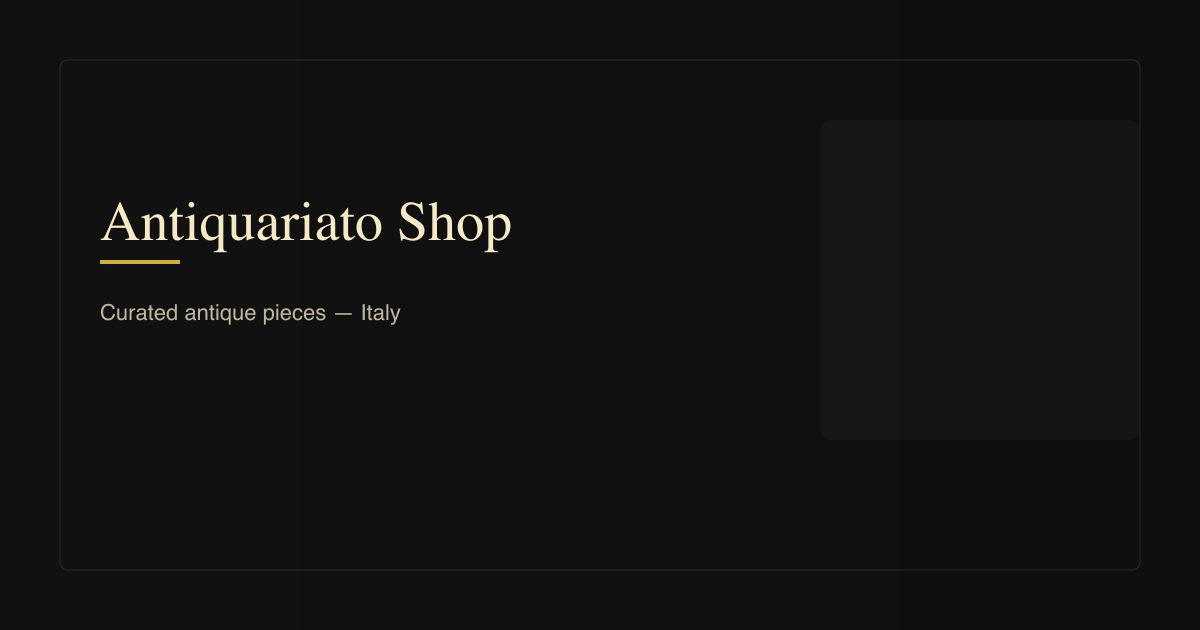
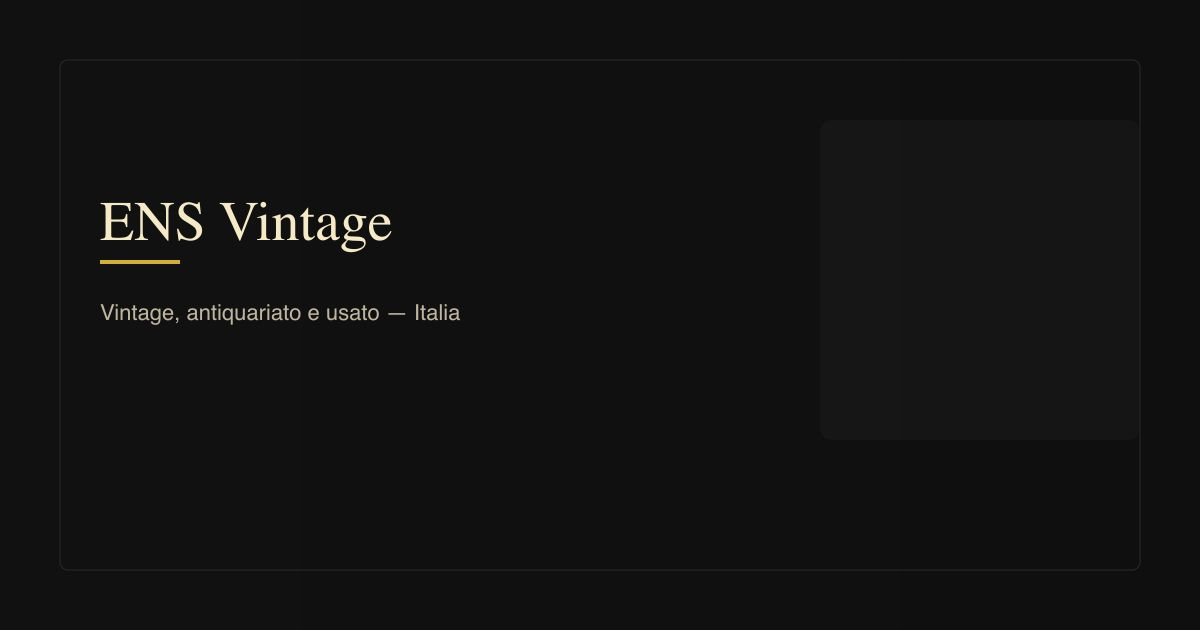
Brand: ENS Vintage

Changed region(s): [[0.0617, 0.3016, 0.4317, 0.4222], [0.0617, 0.4825, 0.4008, 0.5127]]

diff --git a/index.html b/index.html
@@ -3,14 +3,14 @@
 <head>
   <meta charset="utf-8">
   <meta name="viewport" content="width=device-width, initial-scale=1">
-  <meta name="description" content="ENS Antiquariato & Usato — annunci verificati, acquisto semplice e contatto diretto. Cerca per zona e categoria: antiquariato, moda, elettronica, casa e altro.">
+  <meta name="description" content="ENS Vintage — annunci verificati, acquisto semplice e contatto diretto. Cerca per zona e categoria: antiquariato, moda, elettronica, casa e altro.">
   <meta name="theme-color" content="#f6f1e7">
-  <meta property="og:title" content="ENS Antiquariato & Usato">
+  <meta property="og:title" content="ENS Vintage">
   <meta property="og:description" content="Annunci verificati: antiquariato e usato. Cerca per zona e categoria, salva i preferiti e contatta il venditore.">
   <meta property="og:type" content="website">
   <meta property="og:url" content="https://egly87.github.io/ensantiquarato.github.io">
   <meta property="og:image" content="https://egly87.github.io/ensantiquarato.github.io/assets/brand/og-1200x630.jpg">
-  <title>ENS Antiquariato & Usato — Annunci e marketplace</title>
+  <title>ENS Vintage — Annunci e marketplace</title>
   <link rel="canonical" href="https://egly87.github.io/ensantiquarato.github.io/">
   <link rel="manifest" href="manifest.webmanifest">
   <link rel="icon" href="assets/brand/favicon-512.png" type="image/png">
@@ -21,8 +21,8 @@
     <header class="navbar">
       <div class="navbar-container">
         <a href="index.html" class="navbar-brand">
-          <img src="assets/brand/logo.svg" alt="ENS Antiquariato" class="logo" loading="lazy" width="42" height="42" decoding="async">
-          <span>ENS Antiquariato & Usato</span>
+          <img src="assets/brand/logo.svg" alt="ENS Vintage" class="logo" loading="lazy" width="42" height="42" decoding="async">
+          <span>ENS Vintage</span>
         </a>
         <nav class="navbar-menu">
           <a href="index.html" class="nav-link active">Home</a>
@@ -263,7 +263,7 @@
       <div class="container">
         <div class="footer-content">
           <div class="footer-section">
-            <h4>ENS Antiquariato & Usato</h4>
+            <h4>ENS Vintage</h4>
             <p>Annunci verificati di antiquariato e usato: foto reali, condizione chiara e contatto diretto.</p>
           </div>
           <div class="footer-section">

diff --git a/chi-siamo.html b/chi-siamo.html
@@ -3,14 +3,14 @@
 <head>
   <meta charset="utf-8">
   <meta name="viewport" content="width=device-width, initial-scale=1">
-  <meta name="description" content="Chi siamo — ENS Antiquariato & Usato. Annunci verificati, trasparenza e supporto diretto.">
+  <meta name="description" content="Chi siamo — ENS Vintage. Annunci verificati, trasparenza e supporto diretto.">
   <meta name="theme-color" content="#f6f1e7">
-  <meta property="og:title" content="Chi siamo — ENS Antiquariato & Usato">
+  <meta property="og:title" content="Chi siamo — ENS Vintage">
   <meta property="og:description" content="Passione per pezzi autentici, consulenza e cura del dettaglio.">
   <meta property="og:type" content="website">
   <meta property="og:url" content="https://egly87.github.io/ensantiquarato.github.io/chi-siamo.html">
   <meta property="og:image" content="https://egly87.github.io/ensantiquarato.github.io/assets/brand/og-1200x630.jpg">
-  <title>Chi siamo — ENS Antiquariato & Usato</title>
+  <title>Chi siamo — ENS Vintage</title>
   <link rel="canonical" href="https://egly87.github.io/ensantiquarato.github.io/chi-siamo.html">
   <link rel="manifest" href="manifest.webmanifest">
   <link rel="icon" href="assets/brand/favicon-512.png" type="image/png">
@@ -21,8 +21,8 @@
     <header class="navbar">
       <div class="navbar-container">
         <a href="index.html" class="navbar-brand">
-          <img src="assets/brand/logo.svg" alt="ENS Antiquariato" class="logo" loading="lazy" width="42" height="42" decoding="async">
-          <span>ENS Antiquariato & Usato</span>
+          <img src="assets/brand/logo.svg" alt="ENS Vintage" class="logo" loading="lazy" width="42" height="42" decoding="async">
+          <span>ENS Vintage</span>
         </a>
         <nav class="navbar-menu">
           <a href="index.html" class="nav-link">Home</a>

diff --git a/termini.html b/termini.html
@@ -3,14 +3,14 @@
 <head>
   <meta charset="utf-8">
   <meta name="viewport" content="width=device-width, initial-scale=1">
-  <meta name="description" content="Termini e Condizioni — ENS Antiquariato & Usato.">
+  <meta name="description" content="Termini e Condizioni — ENS Vintage.">
   <meta name="theme-color" content="#f6f1e7">
-  <meta property="og:title" content="Termini — ENS Antiquariato & Usato">
+  <meta property="og:title" content="Termini — ENS Vintage">
   <meta property="og:description" content="Termini e condizioni di vendita e utilizzo del sito.">
   <meta property="og:type" content="website">
   <meta property="og:url" content="https://egly87.github.io/ensantiquarato.github.io/termini.html">
   <meta property="og:image" content="https://egly87.github.io/ensantiquarato.github.io/assets/brand/og-1200x630.jpg">
-  <title>Termini e Condizioni — ENS Antiquariato & Usato</title>
+  <title>Termini e Condizioni — ENS Vintage</title>
   <link rel="canonical" href="https://egly87.github.io/ensantiquarato.github.io/termini.html">
   <link rel="manifest" href="manifest.webmanifest">
   <link rel="icon" href="assets/brand/favicon-512.png" type="image/png">
@@ -21,8 +21,8 @@
     <header class="navbar">
       <div class="navbar-container">
         <a href="index.html" class="navbar-brand">
-          <img src="assets/brand/logo.svg" alt="ENS Antiquariato" class="logo" loading="lazy" width="42" height="42" decoding="async">
-          <span>ENS Antiquariato & Usato</span>
+          <img src="assets/brand/logo.svg" alt="ENS Vintage" class="logo" loading="lazy" width="42" height="42" decoding="async">
+          <span>ENS Vintage</span>
         </a>
         <nav class="navbar-menu">
           <a href="index.html" class="nav-link">Home</a>

diff --git a/prodotto.html b/prodotto.html
@@ -3,14 +3,14 @@
 <head>
   <meta charset="utf-8">
   <meta name="viewport" content="width=device-width, initial-scale=1">
-  <meta name="description" content="Dettagli annuncio — ENS Antiquariato & Usato.">
+  <meta name="description" content="Dettagli annuncio — ENS Vintage.">
   <meta name="theme-color" content="#f6f1e7">
-  <meta property="og:title" content="Annuncio — ENS Antiquariato & Usato">
+  <meta property="og:title" content="Annuncio — ENS Vintage">
   <meta property="og:description" content="Scopri i dettagli dell'annuncio: foto, descrizione, zona e contatto diretto.">
   <meta property="og:type" content="product">
   <meta property="og:url" content="https://egly87.github.io/ensantiquarato.github.io/prodotto.html">
   <meta property="og:image" content="https://egly87.github.io/ensantiquarato.github.io/assets/brand/og-1200x630.jpg">
-  <title>Annuncio — ENS Antiquariato & Usato</title>
+  <title>Annuncio — ENS Vintage</title>
   <link rel="canonical" href="https://egly87.github.io/ensantiquarato.github.io/prodotto.html">
   <link rel="manifest" href="manifest.webmanifest">
   <link rel="icon" href="assets/brand/favicon-512.png" type="image/png">
@@ -21,8 +21,8 @@
     <header class="navbar">
       <div class="navbar-container">
         <a href="index.html" class="navbar-brand">
-          <img src="assets/brand/logo.svg" alt="ENS Antiquariato" class="logo" loading="lazy" width="42" height="42" decoding="async">
-          <span>ENS Antiquariato & Usato</span>
+          <img src="assets/brand/logo.svg" alt="ENS Vintage" class="logo" loading="lazy" width="42" height="42" decoding="async">
+          <span>ENS Vintage</span>
         </a>
         <nav class="navbar-menu">
           <a href="index.html" class="nav-link">Home</a>

diff --git a/privacy.html b/privacy.html
@@ -3,14 +3,14 @@
 <head>
   <meta charset="utf-8">
   <meta name="viewport" content="width=device-width, initial-scale=1">
-  <meta name="description" content="Informativa sulla Privacy — ENS Antiquariato & Usato.">
+  <meta name="description" content="Informativa sulla Privacy — ENS Vintage.">
   <meta name="theme-color" content="#f6f1e7">
-  <meta property="og:title" content="Privacy — ENS Antiquariato & Usato">
+  <meta property="og:title" content="Privacy — ENS Vintage">
   <meta property="og:description" content="Informativa sulla privacy e trattamento dati.">
   <meta property="og:type" content="website">
   <meta property="og:url" content="https://egly87.github.io/ensantiquarato.github.io/privacy.html">
   <meta property="og:image" content="https://egly87.github.io/ensantiquarato.github.io/assets/brand/og-1200x630.jpg">
-  <title>Privacy — ENS Antiquariato & Usato</title>
+  <title>Privacy — ENS Vintage</title>
   <link rel="canonical" href="https://egly87.github.io/ensantiquarato.github.io/privacy.html">
   <link rel="manifest" href="manifest.webmanifest">
   <link rel="icon" href="assets/brand/favicon-512.png" type="image/png">
@@ -21,8 +21,8 @@
     <header class="navbar">
       <div class="navbar-container">
         <a href="index.html" class="navbar-brand">
-          <img src="assets/brand/logo.svg" alt="ENS Antiquariato" class="logo" loading="lazy" width="42" height="42" decoding="async">
-          <span>ENS Antiquariato & Usato</span>
+          <img src="assets/brand/logo.svg" alt="ENS Vintage" class="logo" loading="lazy" width="42" height="42" decoding="async">
+          <span>ENS Vintage</span>
         </a>
         <nav class="navbar-menu">
           <a href="index.html" class="nav-link">Home</a>

diff --git a/contatti.html b/contatti.html
@@ -5,12 +5,12 @@
   <meta name="viewport" content="width=device-width, initial-scale=1">
   <meta name="description" content="Contattaci per informazioni su annunci di antiquariato e usato, richieste speciali o supporto all'acquisto.">
   <meta name="theme-color" content="#f6f1e7">
-  <meta property="og:title" content="Contatti — ENS Antiquariato & Usato">
+  <meta property="og:title" content="Contatti — ENS Vintage">
   <meta property="og:description" content="Scrivici per richieste speciali, consulenze o valutazioni.">
   <meta property="og:type" content="website">
   <meta property="og:url" content="https://egly87.github.io/ensantiquarato.github.io/contatti.html">
   <meta property="og:image" content="https://egly87.github.io/ensantiquarato.github.io/assets/brand/og-1200x630.jpg">
-  <title>Contatti — ENS Antiquariato & Usato</title>
+  <title>Contatti — ENS Vintage</title>
   <link rel="canonical" href="https://egly87.github.io/ensantiquarato.github.io/contatti.html">
   <link rel="manifest" href="manifest.webmanifest">
   <link rel="icon" href="assets/brand/favicon-512.png" type="image/png">
@@ -21,8 +21,8 @@
     <header class="navbar">
       <div class="navbar-container">
         <a href="index.html" class="navbar-brand">
-          <img src="assets/brand/logo.svg" alt="ENS Antiquariato" class="logo" loading="lazy" width="42" height="42" decoding="async">
-          <span>ENS Antiquariato & Usato</span>
+          <img src="assets/brand/logo.svg" alt="ENS Vintage" class="logo" loading="lazy" width="42" height="42" decoding="async">
+          <span>ENS Vintage</span>
         </a>
         <nav class="navbar-menu">
           <a href="index.html" class="nav-link">Home</a>

diff --git a/catalogo.html b/catalogo.html
@@ -5,12 +5,12 @@
   <meta name="viewport" content="width=device-width, initial-scale=1">
   <meta name="description" content="Annunci — antiquariato e usato. Filtra per sezione, zona, categoria e stato.">
   <meta name="theme-color" content="#f6f1e7">
-  <meta property="og:title" content="Annunci — ENS Antiquariato & Usato">
+  <meta property="og:title" content="Annunci — ENS Vintage">
   <meta property="og:description" content="Annunci di antiquariato e usato: filtra per sezione, zona, categoria e stato.">
   <meta property="og:type" content="website">
   <meta property="og:url" content="https://egly87.github.io/ensantiquarato.github.io/catalogo.html">
   <meta property="og:image" content="https://egly87.github.io/ensantiquarato.github.io/assets/brand/og-1200x630.jpg">
-  <title>Annunci — ENS Antiquariato & Usato</title>
+  <title>Annunci — ENS Vintage</title>
   <link rel="canonical" href="https://egly87.github.io/ensantiquarato.github.io/catalogo.html">
   <link rel="manifest" href="manifest.webmanifest">
   <link rel="icon" href="assets/brand/favicon-512.png" type="image/png">
@@ -21,8 +21,8 @@
     <header class="navbar">
       <div class="navbar-container">
         <a href="index.html" class="navbar-brand">
-          <img src="assets/brand/logo.svg" alt="ENS Antiquariato" class="logo" loading="lazy" width="42" height="42" decoding="async">
-          <span>ENS Antiquariato & Usato</span>
+          <img src="assets/brand/logo.svg" alt="ENS Vintage" class="logo" loading="lazy" width="42" height="42" decoding="async">
+          <span>ENS Vintage</span>
         </a>
         <nav class="navbar-menu">
           <a href="index.html" class="nav-link">Home</a>

diff --git a/carrello.html b/carrello.html
@@ -5,12 +5,12 @@
   <meta name="viewport" content="width=device-width, initial-scale=1">
   <meta name="description" content="Carrello — riepilogo articoli e richiesta di preventivo.">
   <meta name="theme-color" content="#f6f1e7">
-  <meta property="og:title" content="Carrello — ENS Antiquariato & Usato">
+  <meta property="og:title" content="Carrello — ENS Vintage">
   <meta property="og:description" content="Riepilogo prodotti e richiesta di preventivo personalizzato.">
   <meta property="og:type" content="website">
   <meta property="og:url" content="https://egly87.github.io/ensantiquarato.github.io/carrello.html">
   <meta property="og:image" content="https://egly87.github.io/ensantiquarato.github.io/assets/brand/og-1200x630.jpg">
-  <title>Carrello — ENS Antiquariato & Usato</title>
+  <title>Carrello — ENS Vintage</title>
   <link rel="canonical" href="https://egly87.github.io/ensantiquarato.github.io/carrello.html">
   <link rel="manifest" href="manifest.webmanifest">
   <link rel="icon" href="assets/brand/favicon-512.png" type="image/png">
@@ -21,8 +21,8 @@
     <header class="navbar">
       <div class="navbar-container">
         <a href="index.html" class="navbar-brand">
-          <img src="assets/brand/logo.svg" alt="ENS Antiquariato" class="logo" loading="lazy" width="42" height="42" decoding="async">
-          <span>ENS Antiquariato & Usato</span>
+          <img src="assets/brand/logo.svg" alt="ENS Vintage" class="logo" loading="lazy" width="42" height="42" decoding="async">
+          <span>ENS Vintage</span>
         </a>
         <nav class="navbar-menu">
           <a href="index.html" class="nav-link">Home</a>

diff --git a/admin-products.html b/admin-products.html
@@ -239,8 +239,8 @@
     <header class="navbar">
       <div class="navbar-container">
         <a href="index.html" class="navbar-brand">
-          <img src="assets/brand/logo.svg" alt="ENS Antiquariato" class="logo" loading="lazy" width="40" height="40" decoding="async">
-          <span>ENS - Admin Annunci</span>
+          <img src="assets/brand/logo.svg" alt="ENS Vintage" class="logo" loading="lazy" width="40" height="40" decoding="async">
+          <span>ENS Vintage - Admin Annunci</span>
         </a>
         <nav class="navbar-menu">
           <a href="index.html" class="nav-link">Home</a>
@@ -471,7 +471,7 @@
     </main>
 
     <footer style="text-align: center; padding: 20px; color: #666; margin-top: 40px;">
-      <p>© 2026 ENS - Admin</p>
+      <p>© 2026 ENS Vintage - Admin</p>
     </footer>
   </div>
 

diff --git a/js/app.js b/js/app.js
@@ -1,5 +1,5 @@
 // ========================
-// ANTIQUARIATO SHOP - App.js
+// ENS VINTAGE - App.js
 // ========================
 
 const app = {
@@ -389,7 +389,7 @@ const app = {
       "image": product.image,
       "brand": {
         "@type": "Brand",
-        "name": "ENS"
+        "name": "ENS Vintage"
       },
       "offers": {
         "@type": "Offer",
@@ -407,7 +407,7 @@ const app = {
   },
 
   updatePageMeta(product) {
-    document.title = `${product.name} — ENS`;
+    document.title = `${product.name} — ENS Vintage`;
 
     const ogTitle = document.querySelector('meta[property="og:title"]');
     if (ogTitle) ogTitle.setAttribute('content', product.name);
